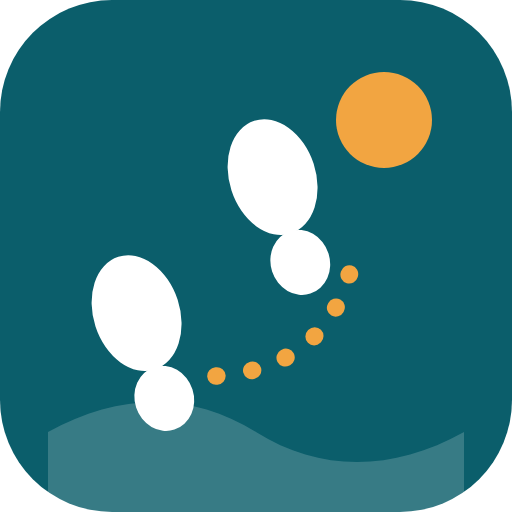
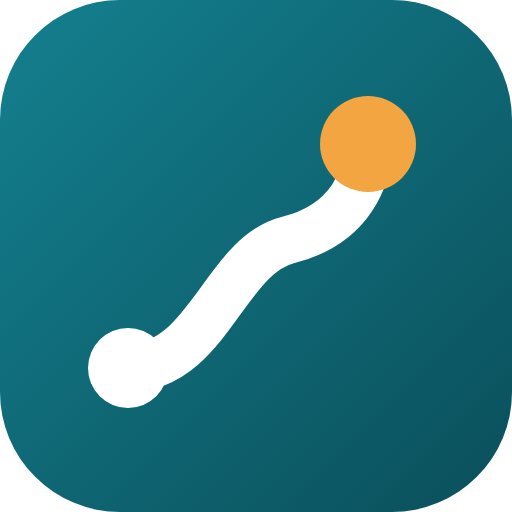
로고 새로 그리기(길 위의 한 걸음), 첫 화면 아래 링크를 설정으로 옮기기
- 발자국 로고를 출발점→주황 도착점으로 이어지는 단순한 길 모양으로 교체
- 앱·PWA·안드로이드 아이콘과 스토어 그래픽 다시 만들기
- 개인정보처리방침·장소 탐색·예약 신청·신청 조회·후기·문의 링크를 설정 '정보' 목록으로 이동
- 서비스 워커 캐시 v83

Claude-Session: https://claude.ai/code/session_01F97bc1LV9a97NyPAs5RF2H

diff --git a/travel-planner/public/index.html b/travel-planner/public/index.html
@@ -97,8 +97,15 @@
       </section>
       <section>
         <h3 data-i18n>정보</h3>
+        <nav class="set-links">
+          <a href="directory.html"><span data-i18n>강원 장소·운영정보 탐색</span><i>›</i></a>
+          <a href="booking.html" class="needs-server"><span data-i18n>숙소·투어 예약 신청</span><i>›</i></a>
+          <a href="booking-status.html" class="needs-server"><span data-i18n>신청 조회</span><i>›</i></a>
+          <a href="reviews.html" class="needs-server"><span data-i18n>여행 후기</span><i>›</i></a>
+          <a href="privacy.html"><span data-i18n>개인정보처리방침</span><i>›</i></a>
+          <a href="https://github.com/hundol047/MY-AI-LAB/issues" target="_blank" rel="noopener"><span data-i18n>문의·오류 알리기</span><i>↗</i></a>
+        </nav>
         <p class="about"><span data-i18n>보폭 · 내 걸음에 맞춘 강원 여행</span> · <span id="setVersion"></span><br>
-          <a href="privacy.html" data-i18n>개인정보처리방침</a> · <a href="https://github.com/hundol047/MY-AI-LAB/issues" target="_blank" rel="noopener" data-i18n>문의·오류 알리기</a><br>
           <span data-i18n>정보 출처: 한국관광공사, 공공데이터포털, 기상청, 국토교통부</span></p>
       </section>
     </div>
@@ -323,13 +330,12 @@
     <section class="card checks" id="checks" hidden></section>
   </main>
 
-  <p class="foot-links"><a href="directory.html" data-i18n>강원 장소·운영정보 탐색</a> · <a href="privacy.html" data-i18n>개인정보처리방침</a><span class="needs-server"> · <a href="booking.html" data-i18n>숙소·투어 예약 신청</a> · <a href="booking-status.html" data-i18n>신청 조회</a> · <a href="reviews.html" data-i18n>여행 후기</a></span></p>
   <div class="toast" id="toast" role="status" aria-live="polite"></div>
 
   <!-- static-i18n:start (scripts/bake-static-i18n.mjs가 만듦, 직접 고치지 말 것) -->
   <script>
   (function () {
-    var D = {"en":{"보폭":"Bopok","링크 공유":"Share","캘린더 저장":"Calendar","출발 알림":"Departure alerts","설정":"Settings","닫기":"Close","화면":"Display","화면 밝기":"Theme","휴대폰 설정":"System","밝게":"Light","어둡게":"Dark","글씨 크기":"Text size","보통":"Normal","크게":"Large","언어":"Language","여행 기본값":"Trip defaults","이동 편의":"Mobility","일정을 만들 때 미리 골라 둬요":"Pre-selected when you make a plan","없음":"None","🦯 걷기":"🦯 Walking","♿ 휠체어":"♿ Wheelchair","기본 이동수단":"Default transport","자동차":"Car","대중교통":"Public transit","내 기기에 저장된 것":"Stored on this device","저장한 일정":"Saved plans","지우기":"Clear","최근 본 장소 기록":"Recently shown places","다음 일정에서 다른 곳을 추천할 때 써요":"Used to suggest different places next time","반값여행 정산 자료":"Half-price trip claim files","올린 영수증·사진":"Uploaded receipts and photos","모든 기록":"Everything","모두 지우기":"Clear all","정보":"About","보폭 · 내 걸음에 맞춘 강원 여행":"Bopok · Gangwon trips at your own pace","개인정보처리방침":"Privacy policy","문의·오류 알리기":"Contact / report a problem","정보 출처: 한국관광공사, 공공데이터포털, 기상청, 국토교통부":"Data: Korea Tourism Organization, Public Data Portal, KMA, MOLIT","강원 여행,<br>말하면 일정이 나와요":"Your Gangwon trip,<br>just say it","내 보폭에 맞춘 여행 · 걷기 힘들어도, 휠체어로도":"Travel at your own pace · even if walking is hard, even by wheelchair","마이크를 누르고 여행을 말해 보세요":"Tap the mic and tell us your trip","예) 다음 주 토요일 부모님이랑 속초 1박, 서울역에서 기차로":"e.g. Next Saturday, Sokcho for 1 night with my parents, by train from Seoul Station","만들기":"Create","직접 골라서 만들기":"Choose options yourself","어디로":"Where","강릉·동해":"Gangneung · Donghae","속초·양양":"Sokcho · Yangyang","춘천·철원":"Chuncheon · Cheorwon","평창·정선":"Pyeongchang · Jeongseon","원주":"Wonju","언제":"When","당일":"Day trip","1박 2일":"2 days, 1 night","2박 3일":"3 days, 2 nights","3박 4일":"4 days, 3 nights","4박 5일":"5 days, 4 nights","이어서 갈 권역 <em>원할 때만</em>":"Continue to <em>optional</em>","누구와":"With whom","혼자":"Solo","연인·친구":"Partner · friends","아이와":"With kids","부모님과":"With parents","반려동물과":"With a pet","좋아하는 것 <em>여러 개 가능</em>":"Interests <em>pick any</em>","바다":"Sea","카페":"Cafés","맛집":"Local food","역사·문화":"History · culture","자연·산책":"Nature · walks","이동 편의 <em>필요할 때만</em>":"Accessibility <em>if needed</em>","🦯 걷기 힘들어요":"🦯 Walking is hard","👶 유모차":"👶 Stroller","이동":"Getting around","택시":"Taxi","대중교통·도보":"Transit · walking","출발":"Start","출발지 바꾸기":"Change","지금 위치에서":"From my location","기본(권역 역·터미널)":"Default (station·terminal)","첫날 출발 시각":"Departure on day 1","자동":"Auto","고른 출발지는 이 기기에 저장돼요. 자동: 가까우면 10시, 멀면(60km 넘게) 8시에 출발":"Your starting point is saved on this device. Auto: leave at 10:00 if nearby, 08:00 if over 60 km away","일정 만들기":"Make my plan","사장님이세요? 메뉴 입력으로 가게 등록":"Own a shop? Enter your menu to register (Korean)","문을 닫았어요 (폐업·휴업)":"It's closed (shut down or on break)","운영시간·쉬는 날이 달라요":"Hours or closing days are wrong","주차 정보가 달라요":"Parking info is wrong","위치가 달라요":"Location is wrong","기타":"Other","개인정보는 받지 않아요. 확인 후 앱 정보를 고칩니다.":"No personal data is collected. We'll check and fix the app.","취소":"Cancel","보내기":"Send","저장":"Save","조건 변경":"Edit choices","비가 와요":"It's raining","덜 걷고 싶어요":"Less walking","여유롭게":"Relaxed","더 알차게":"Pack more in","무료 여행 가이드":"Free travel guide","비 오면 어떡해?":"What if it rains?","아이랑 가도 괜찮을까?":"Is it OK with kids?","오늘 운영시간 알려줘":"Today's opening hours?","⛶ 크게 보기":"⛶ Full screen","두 손가락으로 지도를 움직이고 확대해요.":"Use two fingers to move and zoom the map.","강원 장소·운영정보 탐색":"Explore places and opening information","숙소·투어 예약 신청":"Accommodation and tour requests","신청 조회":"Request status","여행 후기":"Travel reviews","말 대신 글로 써도 돼요":"Or type it here","출발지 검색 (예: 서울역, 경포, 동서울)":"Search a starting point (e.g. Seoul Station, Gyeongpo)","무엇이 다른지 적어 주세요 (선택)":"What's different? (optional)","예) 2일차에 바다 한 곳 더 넣어줘":"e.g. Add one more beach on day 2","말하기":"Speak","큰 글씨":"Large text","일정 읽어 주기":"Read the plan aloud"},"ja":{"보폭":"ボポク","링크 공유":"共有","캘린더 저장":"カレンダー","출발 알림":"出発通知","설정":"設定","닫기":"閉じる","화면":"画面","화면 밝기":"画面の明るさ","휴대폰 설정":"端末の設定","밝게":"ライト","어둡게":"ダーク","글씨 크기":"文字の大きさ","보통":"標準","크게":"大きく","언어":"言語","여행 기본값":"旅行の初期設定","이동 편의":"移動のしやすさ","일정을 만들 때 미리 골라 둬요":"日程を作るときに選んでおきます","없음":"なし","🦯 걷기":"🦯 歩行","♿ 휠체어":"♿ 車いす","기본 이동수단":"基本の移動手段","자동차":"車","대중교통":"公共交通","내 기기에 저장된 것":"この端末に保存されたもの","저장한 일정":"保存したプラン","지우기":"削除","최근 본 장소 기록":"最近見た場所の記録","다음 일정에서 다른 곳을 추천할 때 써요":"次の日程で別の場所を勧めるときに使います","반값여행 정산 자료":"半額旅行の精算資料","올린 영수증·사진":"アップしたレシート・写真","모든 기록":"すべての記録","모두 지우기":"すべて削除","정보":"情報","보폭 · 내 걸음에 맞춘 강원 여행":"ボポク · 自分の歩幅に合わせた江原旅行","개인정보처리방침":"プライバシーポリシー","문의·오류 알리기":"お問い合わせ・不具合報告","정보 출처: 한국관광공사, 공공데이터포털, 기상청, 국토교통부":"情報の出典: 韓国観光公社、公共データポータル、気象庁、国土交通部","강원 여행,<br>말하면 일정이 나와요":"江原道の旅、<br>話すだけでプランに","내 보폭에 맞춘 여행 · 걷기 힘들어도, 휠체어로도":"自分の歩幅に合わせた旅 · 歩くのが大変でも、車いすでも","마이크를 누르고 여행을 말해 보세요":"マイクを押して旅の希望を話してください","예) 다음 주 토요일 부모님이랑 속초 1박, 서울역에서 기차로":"例) 来週の土曜日、両親と束草に1泊、ソウル駅から列車で","만들기":"作成","직접 골라서 만들기":"自分で選んで作る","어디로":"どこへ","강릉·동해":"江陵・東海","속초·양양":"束草・襄陽","춘천·철원":"春川・鉄原","평창·정선":"平昌・旌善","원주":"原州","언제":"いつ","당일":"日帰り","1박 2일":"1泊2日","2박 3일":"2泊3日","3박 4일":"3泊4日","4박 5일":"4泊5日","이어서 갈 권역 <em>원할 때만</em>":"続けて行くエリア <em>希望時のみ</em>","누구와":"誰と","혼자":"ひとり","연인·친구":"恋人・友人","아이와":"子ども連れ","부모님과":"両親と","반려동물과":"ペットと","좋아하는 것 <em>여러 개 가능</em>":"好きなこと <em>複数選択可</em>","바다":"海","카페":"カフェ","맛집":"グルメ","역사·문화":"歴史・文化","자연·산책":"自然・散歩","이동 편의 <em>필요할 때만</em>":"移動の配慮 <em>必要なときだけ</em>","🦯 걷기 힘들어요":"🦯 歩くのが大変","👶 유모차":"👶 ベビーカー","이동":"移動","택시":"タクシー","대중교통·도보":"公共交通・徒歩","출발":"出発","출발지 바꾸기":"出発地を変更","지금 위치에서":"現在地から","기본(권역 역·터미널)":"基本(エリアの駅・ターミナル)","첫날 출발 시각":"初日の出発時刻","자동":"自動","고른 출발지는 이 기기에 저장돼요. 자동: 가까우면 10시, 멀면(60km 넘게) 8시에 출발":"選んだ出発地はこの端末に保存されます。自動: 近ければ10時、遠ければ(60km超)8時に出発","일정 만들기":"プランを作る","사장님이세요? 메뉴 입력으로 가게 등록":"お店の方へ: メニューを入力してお店を登録(韓国語)","문을 닫았어요 (폐업·휴업)":"閉まっていた (閉業・休業)","운영시간·쉬는 날이 달라요":"営業時間・休業日が違う","주차 정보가 달라요":"駐車場情報が違う","위치가 달라요":"位置が違う","기타":"その他","개인정보는 받지 않아요. 확인 후 앱 정보를 고칩니다.":"個人情報は受け取りません。確認後にアプリの情報を直します。","취소":"キャンセル","보내기":"送信","저장":"保存","조건 변경":"条件を変更","비가 와요":"雨が降っている","덜 걷고 싶어요":"あまり歩きたくない","여유롭게":"ゆったり","더 알차게":"もっと詰め込む","무료 여행 가이드":"無料旅行ガイド","비 오면 어떡해?":"雨が降ったらどうする？","아이랑 가도 괜찮을까?":"子ども連れでも大丈夫？","오늘 운영시간 알려줘":"今日の営業時間は？","⛶ 크게 보기":"⛶ 大きく表示","두 손가락으로 지도를 움직이고 확대해요.":"2本指で地図を動かし拡大できます。","강원 장소·운영정보 탐색":"江原の場所・営業時間を探す","숙소·투어 예약 신청":"宿泊・ツアー予約申請","신청 조회":"申請照会","여행 후기":"旅行の口コミ","말 대신 글로 써도 돼요":"話す代わりに入力してもOK","출발지 검색 (예: 서울역, 경포, 동서울)":"出発地を検索 (例: ソウル駅、鏡浦)","무엇이 다른지 적어 주세요 (선택)":"何が違うか書いてください (任意)","예) 2일차에 바다 한 곳 더 넣어줘":"例) 2日目に海をもう一つ追加して","말하기":"話す","큰 글씨":"大きい文字","일정 읽어 주기":"日程を読み上げ"},"zh":{"보폭":"步幅","링크 공유":"分享链接","캘린더 저장":"存入日历","출발 알림":"出发提醒","설정":"设置","닫기":"关闭","화면":"显示","화면 밝기":"显示模式","휴대폰 설정":"跟随系统","밝게":"浅色","어둡게":"深色","글씨 크기":"字体大小","보통":"标准","크게":"大","언어":"语言","여행 기본값":"出行默认设置","이동 편의":"出行便利","일정을 만들 때 미리 골라 둬요":"制定行程时预先选择","없음":"无","🦯 걷기":"🦯 步行","♿ 휠체어":"♿ 轮椅","기본 이동수단":"默认交通方式","자동차":"自驾","대중교통":"公共交通","내 기기에 저장된 것":"本设备上保存的内容","저장한 일정":"已保存的行程","지우기":"清除","최근 본 장소 기록":"最近浏览的地点","다음 일정에서 다른 곳을 추천할 때 써요":"用于下次推荐不同的地点","반값여행 정산 자료":"半价旅行报销资料","올린 영수증·사진":"已上传的收据和照片","모든 기록":"全部记录","모두 지우기":"全部清除","정보":"关于","보폭 · 내 걸음에 맞춘 강원 여행":"步幅 · 按自己步幅的江原旅行","개인정보처리방침":"隐私政策","문의·오류 알리기":"联系与问题反馈","정보 출처: 한국관광공사, 공공데이터포털, 기상청, 국토교통부":"信息来源：韩国观光公社、公共数据门户、气象厅、国土交通部","강원 여행,<br>말하면 일정이 나와요":"江原道旅行，<br>说出来就有行程","내 보폭에 맞춘 여행 · 걷기 힘들어도, 휠체어로도":"按自己的步幅旅行 · 行走不便也好，坐轮椅也好","마이크를 누르고 여행을 말해 보세요":"点击麦克风，说说你想怎么玩","예) 다음 주 토요일 부모님이랑 속초 1박, 서울역에서 기차로":"例) 下周六和父母去束草住一晚，从首尔站坐火车","만들기":"生成","직접 골라서 만들기":"自己选择条件","어디로":"去哪里","강릉·동해":"江陵·东海","속초·양양":"束草·襄阳","춘천·철원":"春川·铁原","평창·정선":"平昌·旌善","원주":"原州","언제":"什么时候","당일":"一日游","1박 2일":"两天一夜","2박 3일":"三天两夜","3박 4일":"四天三夜","4박 5일":"五天四夜","이어서 갈 권역 <em>원할 때만</em>":"接着去的区域 <em>可选</em>","누구와":"和谁","혼자":"一个人","연인·친구":"情侣·朋友","아이와":"带孩子","부모님과":"和父母","반려동물과":"带宠物","좋아하는 것 <em>여러 개 가능</em>":"喜欢的 <em>可多选</em>","바다":"大海","카페":"咖啡店","맛집":"美食","역사·문화":"历史·文化","자연·산책":"自然·散步","이동 편의 <em>필요할 때만</em>":"无障碍 <em>需要时选择</em>","🦯 걷기 힘들어요":"🦯 行走不便","👶 유모차":"👶 婴儿车","이동":"交通","택시":"出租车","대중교통·도보":"公共交通·步行","출발":"出发","출발지 바꾸기":"更改出发地","지금 위치에서":"从当前位置","기본(권역 역·터미널)":"默认(区域车站·客运站)","첫날 출발 시각":"第一天出发时间","자동":"自动","고른 출발지는 이 기기에 저장돼요. 자동: 가까우면 10시, 멀면(60km 넘게) 8시에 출발":"选好的出发地会保存在这台设备上。自动: 近的话10点出发，远的话(超过60公里)8点出发","일정 만들기":"生成行程","사장님이세요? 메뉴 입력으로 가게 등록":"您是店主吗？输入菜单登记店铺(韩语)","문을 닫았어요 (폐업·휴업)":"已关门 (停业·歇业)","운영시간·쉬는 날이 달라요":"营业时间或休息日不对","주차 정보가 달라요":"停车信息不对","위치가 달라요":"位置不对","기타":"其他","개인정보는 받지 않아요. 확인 후 앱 정보를 고칩니다.":"不收集个人信息。核实后会修正应用信息。","취소":"取消","보내기":"发送","저장":"保存","조건 변경":"修改条件","비가 와요":"下雨了","덜 걷고 싶어요":"想少走路","여유롭게":"轻松一点","더 알차게":"安排更满","무료 여행 가이드":"免费旅行助手","비 오면 어떡해?":"下雨怎么办？","아이랑 가도 괜찮을까?":"带孩子去可以吗？","오늘 운영시간 알려줘":"今天的营业时间？","⛶ 크게 보기":"⛶ 全屏查看","두 손가락으로 지도를 움직이고 확대해요.":"用两根手指移动和缩放地图。","강원 장소·운영정보 탐색":"探索江原地点及运营信息","숙소·투어 예약 신청":"住宿及旅游预订申请","신청 조회":"申请查询","여행 후기":"旅行评价","말 대신 글로 써도 돼요":"也可以直接输入","출발지 검색 (예: 서울역, 경포, 동서울)":"搜索出发地 (例: 首尔站、镜浦)","무엇이 다른지 적어 주세요 (선택)":"请写下哪里不同 (可选)","예) 2일차에 바다 한 곳 더 넣어줘":"例) 第2天再加一个海边","말하기":"语音输入","큰 글씨":"大字","일정 읽어 주기":"朗读行程"}}[document.documentElement.dataset.earlyLang];
+    var D = {"en":{"보폭":"Bopok","링크 공유":"Share","캘린더 저장":"Calendar","출발 알림":"Departure alerts","설정":"Settings","닫기":"Close","화면":"Display","화면 밝기":"Theme","휴대폰 설정":"System","밝게":"Light","어둡게":"Dark","글씨 크기":"Text size","보통":"Normal","크게":"Large","언어":"Language","여행 기본값":"Trip defaults","이동 편의":"Mobility","일정을 만들 때 미리 골라 둬요":"Pre-selected when you make a plan","없음":"None","🦯 걷기":"🦯 Walking","♿ 휠체어":"♿ Wheelchair","기본 이동수단":"Default transport","자동차":"Car","대중교통":"Public transit","내 기기에 저장된 것":"Stored on this device","저장한 일정":"Saved plans","지우기":"Clear","최근 본 장소 기록":"Recently shown places","다음 일정에서 다른 곳을 추천할 때 써요":"Used to suggest different places next time","반값여행 정산 자료":"Half-price trip claim files","올린 영수증·사진":"Uploaded receipts and photos","모든 기록":"Everything","모두 지우기":"Clear all","정보":"About","강원 장소·운영정보 탐색":"Explore places and opening information","숙소·투어 예약 신청":"Accommodation and tour requests","신청 조회":"Request status","여행 후기":"Travel reviews","개인정보처리방침":"Privacy policy","문의·오류 알리기":"Contact / report a problem","보폭 · 내 걸음에 맞춘 강원 여행":"Bopok · Gangwon trips at your own pace","정보 출처: 한국관광공사, 공공데이터포털, 기상청, 국토교통부":"Data: Korea Tourism Organization, Public Data Portal, KMA, MOLIT","강원 여행,<br>말하면 일정이 나와요":"Your Gangwon trip,<br>just say it","내 보폭에 맞춘 여행 · 걷기 힘들어도, 휠체어로도":"Travel at your own pace · even if walking is hard, even by wheelchair","마이크를 누르고 여행을 말해 보세요":"Tap the mic and tell us your trip","예) 다음 주 토요일 부모님이랑 속초 1박, 서울역에서 기차로":"e.g. Next Saturday, Sokcho for 1 night with my parents, by train from Seoul Station","만들기":"Create","직접 골라서 만들기":"Choose options yourself","어디로":"Where","강릉·동해":"Gangneung · Donghae","속초·양양":"Sokcho · Yangyang","춘천·철원":"Chuncheon · Cheorwon","평창·정선":"Pyeongchang · Jeongseon","원주":"Wonju","언제":"When","당일":"Day trip","1박 2일":"2 days, 1 night","2박 3일":"3 days, 2 nights","3박 4일":"4 days, 3 nights","4박 5일":"5 days, 4 nights","이어서 갈 권역 <em>원할 때만</em>":"Continue to <em>optional</em>","누구와":"With whom","혼자":"Solo","연인·친구":"Partner · friends","아이와":"With kids","부모님과":"With parents","반려동물과":"With a pet","좋아하는 것 <em>여러 개 가능</em>":"Interests <em>pick any</em>","바다":"Sea","카페":"Cafés","맛집":"Local food","역사·문화":"History · culture","자연·산책":"Nature · walks","이동 편의 <em>필요할 때만</em>":"Accessibility <em>if needed</em>","🦯 걷기 힘들어요":"🦯 Walking is hard","👶 유모차":"👶 Stroller","이동":"Getting around","택시":"Taxi","대중교통·도보":"Transit · walking","출발":"Start","출발지 바꾸기":"Change","지금 위치에서":"From my location","기본(권역 역·터미널)":"Default (station·terminal)","첫날 출발 시각":"Departure on day 1","자동":"Auto","고른 출발지는 이 기기에 저장돼요. 자동: 가까우면 10시, 멀면(60km 넘게) 8시에 출발":"Your starting point is saved on this device. Auto: leave at 10:00 if nearby, 08:00 if over 60 km away","일정 만들기":"Make my plan","사장님이세요? 메뉴 입력으로 가게 등록":"Own a shop? Enter your menu to register (Korean)","문을 닫았어요 (폐업·휴업)":"It's closed (shut down or on break)","운영시간·쉬는 날이 달라요":"Hours or closing days are wrong","주차 정보가 달라요":"Parking info is wrong","위치가 달라요":"Location is wrong","기타":"Other","개인정보는 받지 않아요. 확인 후 앱 정보를 고칩니다.":"No personal data is collected. We'll check and fix the app.","취소":"Cancel","보내기":"Send","저장":"Save","조건 변경":"Edit choices","비가 와요":"It's raining","덜 걷고 싶어요":"Less walking","여유롭게":"Relaxed","더 알차게":"Pack more in","무료 여행 가이드":"Free travel guide","비 오면 어떡해?":"What if it rains?","아이랑 가도 괜찮을까?":"Is it OK with kids?","오늘 운영시간 알려줘":"Today's opening hours?","⛶ 크게 보기":"⛶ Full screen","두 손가락으로 지도를 움직이고 확대해요.":"Use two fingers to move and zoom the map.","말 대신 글로 써도 돼요":"Or type it here","출발지 검색 (예: 서울역, 경포, 동서울)":"Search a starting point (e.g. Seoul Station, Gyeongpo)","무엇이 다른지 적어 주세요 (선택)":"What's different? (optional)","예) 2일차에 바다 한 곳 더 넣어줘":"e.g. Add one more beach on day 2","말하기":"Speak","큰 글씨":"Large text","일정 읽어 주기":"Read the plan aloud"},"ja":{"보폭":"ボポク","링크 공유":"共有","캘린더 저장":"カレンダー","출발 알림":"出発通知","설정":"設定","닫기":"閉じる","화면":"画面","화면 밝기":"画面の明るさ","휴대폰 설정":"端末の設定","밝게":"ライト","어둡게":"ダーク","글씨 크기":"文字の大きさ","보통":"標準","크게":"大きく","언어":"言語","여행 기본값":"旅行の初期設定","이동 편의":"移動のしやすさ","일정을 만들 때 미리 골라 둬요":"日程を作るときに選んでおきます","없음":"なし","🦯 걷기":"🦯 歩行","♿ 휠체어":"♿ 車いす","기본 이동수단":"基本の移動手段","자동차":"車","대중교통":"公共交通","내 기기에 저장된 것":"この端末に保存されたもの","저장한 일정":"保存したプラン","지우기":"削除","최근 본 장소 기록":"最近見た場所の記録","다음 일정에서 다른 곳을 추천할 때 써요":"次の日程で別の場所を勧めるときに使います","반값여행 정산 자료":"半額旅行の精算資料","올린 영수증·사진":"アップしたレシート・写真","모든 기록":"すべての記録","모두 지우기":"すべて削除","정보":"情報","강원 장소·운영정보 탐색":"江原の場所・営業時間を探す","숙소·투어 예약 신청":"宿泊・ツアー予約申請","신청 조회":"申請照会","여행 후기":"旅行の口コミ","개인정보처리방침":"プライバシーポリシー","문의·오류 알리기":"お問い合わせ・不具合報告","보폭 · 내 걸음에 맞춘 강원 여행":"ボポク · 自分の歩幅に合わせた江原旅行","정보 출처: 한국관광공사, 공공데이터포털, 기상청, 국토교통부":"情報の出典: 韓国観光公社、公共データポータル、気象庁、国土交通部","강원 여행,<br>말하면 일정이 나와요":"江原道の旅、<br>話すだけでプランに","내 보폭에 맞춘 여행 · 걷기 힘들어도, 휠체어로도":"自分の歩幅に合わせた旅 · 歩くのが大変でも、車いすでも","마이크를 누르고 여행을 말해 보세요":"マイクを押して旅の希望を話してください","예) 다음 주 토요일 부모님이랑 속초 1박, 서울역에서 기차로":"例) 来週の土曜日、両親と束草に1泊、ソウル駅から列車で","만들기":"作成","직접 골라서 만들기":"自分で選んで作る","어디로":"どこへ","강릉·동해":"江陵・東海","속초·양양":"束草・襄陽","춘천·철원":"春川・鉄原","평창·정선":"平昌・旌善","원주":"原州","언제":"いつ","당일":"日帰り","1박 2일":"1泊2日","2박 3일":"2泊3日","3박 4일":"3泊4日","4박 5일":"4泊5日","이어서 갈 권역 <em>원할 때만</em>":"続けて行くエリア <em>希望時のみ</em>","누구와":"誰と","혼자":"ひとり","연인·친구":"恋人・友人","아이와":"子ども連れ","부모님과":"両親と","반려동물과":"ペットと","좋아하는 것 <em>여러 개 가능</em>":"好きなこと <em>複数選択可</em>","바다":"海","카페":"カフェ","맛집":"グルメ","역사·문화":"歴史・文化","자연·산책":"自然・散歩","이동 편의 <em>필요할 때만</em>":"移動の配慮 <em>必要なときだけ</em>","🦯 걷기 힘들어요":"🦯 歩くのが大変","👶 유모차":"👶 ベビーカー","이동":"移動","택시":"タクシー","대중교통·도보":"公共交通・徒歩","출발":"出発","출발지 바꾸기":"出発地を変更","지금 위치에서":"現在地から","기본(권역 역·터미널)":"基本(エリアの駅・ターミナル)","첫날 출발 시각":"初日の出発時刻","자동":"自動","고른 출발지는 이 기기에 저장돼요. 자동: 가까우면 10시, 멀면(60km 넘게) 8시에 출발":"選んだ出発地はこの端末に保存されます。自動: 近ければ10時、遠ければ(60km超)8時に出発","일정 만들기":"プランを作る","사장님이세요? 메뉴 입력으로 가게 등록":"お店の方へ: メニューを入力してお店を登録(韓国語)","문을 닫았어요 (폐업·휴업)":"閉まっていた (閉業・休業)","운영시간·쉬는 날이 달라요":"営業時間・休業日が違う","주차 정보가 달라요":"駐車場情報が違う","위치가 달라요":"位置が違う","기타":"その他","개인정보는 받지 않아요. 확인 후 앱 정보를 고칩니다.":"個人情報は受け取りません。確認後にアプリの情報を直します。","취소":"キャンセル","보내기":"送信","저장":"保存","조건 변경":"条件を変更","비가 와요":"雨が降っている","덜 걷고 싶어요":"あまり歩きたくない","여유롭게":"ゆったり","더 알차게":"もっと詰め込む","무료 여행 가이드":"無料旅行ガイド","비 오면 어떡해?":"雨が降ったらどうする？","아이랑 가도 괜찮을까?":"子ども連れでも大丈夫？","오늘 운영시간 알려줘":"今日の営業時間は？","⛶ 크게 보기":"⛶ 大きく表示","두 손가락으로 지도를 움직이고 확대해요.":"2本指で地図を動かし拡大できます。","말 대신 글로 써도 돼요":"話す代わりに入力してもOK","출발지 검색 (예: 서울역, 경포, 동서울)":"出発地を検索 (例: ソウル駅、鏡浦)","무엇이 다른지 적어 주세요 (선택)":"何が違うか書いてください (任意)","예) 2일차에 바다 한 곳 더 넣어줘":"例) 2日目に海をもう一つ追加して","말하기":"話す","큰 글씨":"大きい文字","일정 읽어 주기":"日程を読み上げ"},"zh":{"보폭":"步幅","링크 공유":"分享链接","캘린더 저장":"存入日历","출발 알림":"出发提醒","설정":"设置","닫기":"关闭","화면":"显示","화면 밝기":"显示模式","휴대폰 설정":"跟随系统","밝게":"浅色","어둡게":"深色","글씨 크기":"字体大小","보통":"标准","크게":"大","언어":"语言","여행 기본값":"出行默认设置","이동 편의":"出行便利","일정을 만들 때 미리 골라 둬요":"制定行程时预先选择","없음":"无","🦯 걷기":"🦯 步行","♿ 휠체어":"♿ 轮椅","기본 이동수단":"默认交通方式","자동차":"自驾","대중교통":"公共交通","내 기기에 저장된 것":"本设备上保存的内容","저장한 일정":"已保存的行程","지우기":"清除","최근 본 장소 기록":"最近浏览的地点","다음 일정에서 다른 곳을 추천할 때 써요":"用于下次推荐不同的地点","반값여행 정산 자료":"半价旅行报销资料","올린 영수증·사진":"已上传的收据和照片","모든 기록":"全部记录","모두 지우기":"全部清除","정보":"关于","강원 장소·운영정보 탐색":"探索江原地点及运营信息","숙소·투어 예약 신청":"住宿及旅游预订申请","신청 조회":"申请查询","여행 후기":"旅行评价","개인정보처리방침":"隐私政策","문의·오류 알리기":"联系与问题反馈","보폭 · 내 걸음에 맞춘 강원 여행":"步幅 · 按自己步幅的江原旅行","정보 출처: 한국관광공사, 공공데이터포털, 기상청, 국토교통부":"信息来源：韩国观光公社、公共数据门户、气象厅、国土交通部","강원 여행,<br>말하면 일정이 나와요":"江原道旅行，<br>说出来就有行程","내 보폭에 맞춘 여행 · 걷기 힘들어도, 휠체어로도":"按自己的步幅旅行 · 行走不便也好，坐轮椅也好","마이크를 누르고 여행을 말해 보세요":"点击麦克风，说说你想怎么玩","예) 다음 주 토요일 부모님이랑 속초 1박, 서울역에서 기차로":"例) 下周六和父母去束草住一晚，从首尔站坐火车","만들기":"生成","직접 골라서 만들기":"自己选择条件","어디로":"去哪里","강릉·동해":"江陵·东海","속초·양양":"束草·襄阳","춘천·철원":"春川·铁原","평창·정선":"平昌·旌善","원주":"原州","언제":"什么时候","당일":"一日游","1박 2일":"两天一夜","2박 3일":"三天两夜","3박 4일":"四天三夜","4박 5일":"五天四夜","이어서 갈 권역 <em>원할 때만</em>":"接着去的区域 <em>可选</em>","누구와":"和谁","혼자":"一个人","연인·친구":"情侣·朋友","아이와":"带孩子","부모님과":"和父母","반려동물과":"带宠物","좋아하는 것 <em>여러 개 가능</em>":"喜欢的 <em>可多选</em>","바다":"大海","카페":"咖啡店","맛집":"美食","역사·문화":"历史·文化","자연·산책":"自然·散步","이동 편의 <em>필요할 때만</em>":"无障碍 <em>需要时选择</em>","🦯 걷기 힘들어요":"🦯 行走不便","👶 유모차":"👶 婴儿车","이동":"交通","택시":"出租车","대중교통·도보":"公共交通·步行","출발":"出发","출발지 바꾸기":"更改出发地","지금 위치에서":"从当前位置","기본(권역 역·터미널)":"默认(区域车站·客运站)","첫날 출발 시각":"第一天出发时间","자동":"自动","고른 출발지는 이 기기에 저장돼요. 자동: 가까우면 10시, 멀면(60km 넘게) 8시에 출발":"选好的出发地会保存在这台设备上。自动: 近的话10点出发，远的话(超过60公里)8点出发","일정 만들기":"生成行程","사장님이세요? 메뉴 입력으로 가게 등록":"您是店主吗？输入菜单登记店铺(韩语)","문을 닫았어요 (폐업·휴업)":"已关门 (停业·歇业)","운영시간·쉬는 날이 달라요":"营业时间或休息日不对","주차 정보가 달라요":"停车信息不对","위치가 달라요":"位置不对","기타":"其他","개인정보는 받지 않아요. 확인 후 앱 정보를 고칩니다.":"不收集个人信息。核实后会修正应用信息。","취소":"取消","보내기":"发送","저장":"保存","조건 변경":"修改条件","비가 와요":"下雨了","덜 걷고 싶어요":"想少走路","여유롭게":"轻松一点","더 알차게":"安排更满","무료 여행 가이드":"免费旅行助手","비 오면 어떡해?":"下雨怎么办？","아이랑 가도 괜찮을까?":"带孩子去可以吗？","오늘 운영시간 알려줘":"今天的营业时间？","⛶ 크게 보기":"⛶ 全屏查看","두 손가락으로 지도를 움직이고 확대해요.":"用两根手指移动和缩放地图。","말 대신 글로 써도 돼요":"也可以直接输入","출발지 검색 (예: 서울역, 경포, 동서울)":"搜索出发地 (例: 首尔站、镜浦)","무엇이 다른지 적어 주세요 (선택)":"请写下哪里不同 (可选)","예) 2일차에 바다 한 곳 더 넣어줘":"例) 第2天再加一个海边","말하기":"语音输入","큰 글씨":"大字","일정 읽어 주기":"朗读行程"}}[document.documentElement.dataset.earlyLang];
     if (!D) return;
     var q = function (s, f) { var a = document.querySelectorAll(s); for (var i = 0; i < a.length; i++) f(a[i]); };
     q("[data-i18n]", function (el) { var k = el.innerHTML.trim(); if (D[k]) { el.dataset.ko = k; el.innerHTML = D[k]; } });

diff --git a/travel-planner/public/sw.js b/travel-planner/public/sw.js
@@ -2,7 +2,7 @@
 // - 앱 파일: 캐시에서 바로 보여주고 뒤에서 새 버전으로 갱신 (stale-while-revalidate)
 // - 지도 타일·사진: 한 번 받으면 캐시에서 (cache-first). 앱을 업데이트해도 지우지 않는 별도 캐시에 두고(산간 지역 오프라인용), 너무 많아지면 오래된 것부터 지운다
 // - AI·날씨·경로 등 API: 항상 네트워크
-const CACHE = "ohneul-gangwon-v82";
+const CACHE = "ohneul-gangwon-v83";
 const MEDIA_CACHE = "ohneul-gangwon-media-v1"; // 앱 버전과 따로 유지
 const MEDIA_MAX = 1500; // 지도 조각·사진 최대 개수 (조각 1개 약 10~30KB)
 const SHELL = ["./", "index.html", "style.css", "app.js", "booking-links.js", "planner.js", "data.js", "extra-places.js", "places-more.js", "pet-places.js", "pet.json", "access-data.js", "transit.js", "transit.json", "bus.json", "crowd.json", "parking.json", "parking-lots.json", "intro.json", "menu.json", "courses.json", "claim.html", "claim.js", "claim-parse.js", "claim.css", "vendor/exifr/exifr-lite.js", "vendor/fflate/fflate.js", "i18n.js", "data-en.json", "photos.json", "lodging-places.json", "fees.json", "costs.js", "alerts.js", "today.js", "split.js", "directory-place.js", "origins.js", "voice-parse.js", "sun.js", "ai-local.js", "guide-topics.js", "knowledge.js", "knowledge-intl.js", "i18n-cjk.js", "icon.svg", "icon-192.png", "apple-touch-icon.png", "manifest.webmanifest", "vendor/leaflet/leaflet.js", "vendor/leaflet/leaflet.css", "vendor/maplibre/maplibre-gl.js", "vendor/maplibre/maplibre-gl.css", "vendor/pretendard/pretendardvariable-dynamic-subset.css"];

diff --git a/travel-planner/public/style.css b/travel-planner/public/style.css
@@ -841,5 +841,8 @@ dialog.settings::backdrop { background: rgba(0,0,0,.35); }
 .settings .about { font-size: 12.5px; color: var(--sub); line-height: 1.6; }
 .settings .about a { color: var(--brand); }
 @media (max-width: 440px) { .top .lang { display: none; } }
-.foot-links { text-align: center; font-size: 13px; }
-.foot-links a { color: var(--brand); }
+.set-links { display: flex; flex-direction: column; border: 1px solid var(--line); border-radius: 12px; overflow: hidden; margin-bottom: 10px; }
+.set-links a { display: flex; justify-content: space-between; align-items: center; padding: 13px 14px; color: var(--text); text-decoration: none; font-size: 15px; }
+.set-links a + a { border-top: 1px solid var(--line); }
+.set-links a:active { background: var(--brand-soft); }
+.set-links i { font-style: normal; color: var(--sub); }
